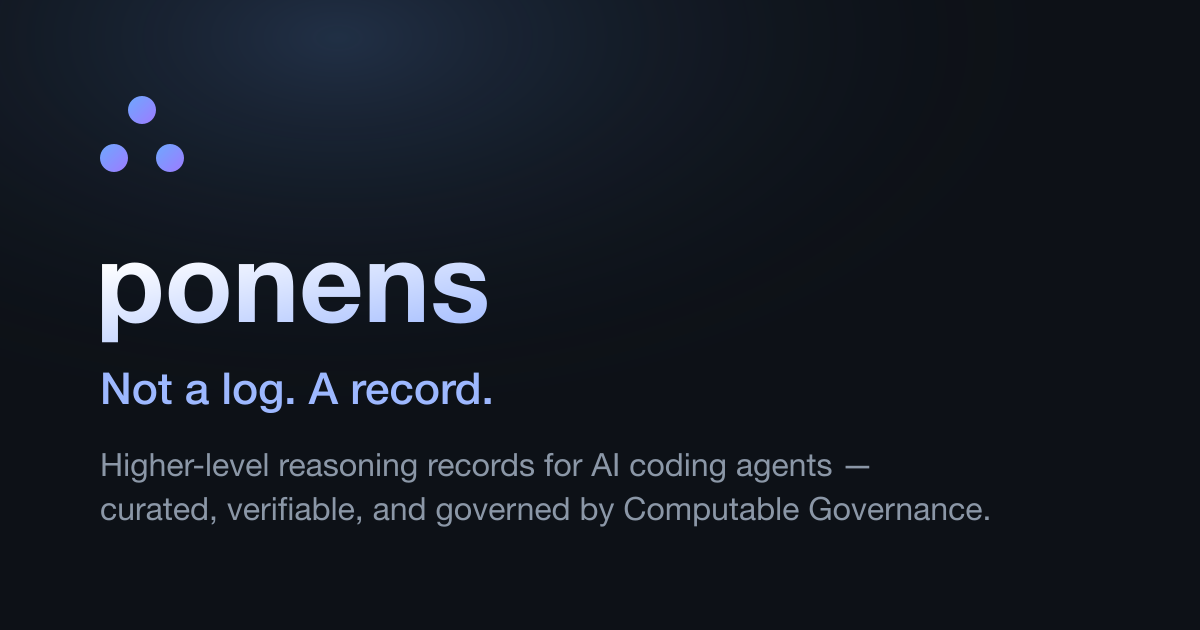
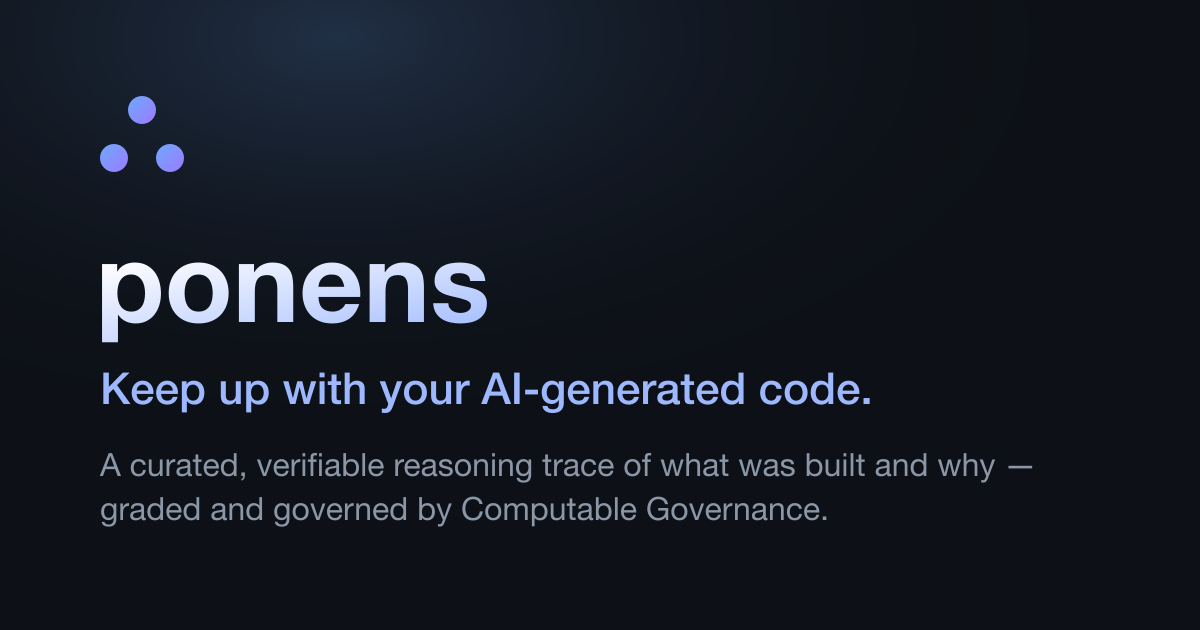
rename viewer to demo; update preview text

Changed region(s): [[0.0617, 0.7238, 0.8633, 0.8444], [0.0925, 0.573, 0.74, 0.6635]]

diff --git a/website/public/styles/global.css b/website/public/styles/global.css
@@ -290,6 +290,20 @@ main { max-width: 1040px; margin: 0 auto; padding: 0 2rem; }
 .ex-pass strong { color: #56d364; } .ex-fail strong { color: var(--error); }
 
 /* viewer */
-.viewer-frame { border: 1px solid var(--border); border-radius: 12px; overflow: hidden; height: 78vh; background: #0d1117; }
+/* The viewer is a dense, wide app — let it break out of the 1040px text column
+   and span (almost) the full viewport, capped on ultra-wide screens, centred. */
+.viewer-frame {
+  width: min(100vw - 3rem, 1640px);
+  position: relative;
+  left: 50%;
+  transform: translateX(-50%);
+  margin: 0;
+  height: 84vh;
+  min-height: 620px;
+  border: 1px solid var(--border);
+  border-radius: 12px;
+  overflow: hidden;
+  background: #0d1117;
+}
 .viewer-frame iframe { width: 100%; height: 100%; border: 0; display: block; }
 .viewer-note { color: var(--muted); font-size: 0.9rem; margin-top: 0.8rem; }